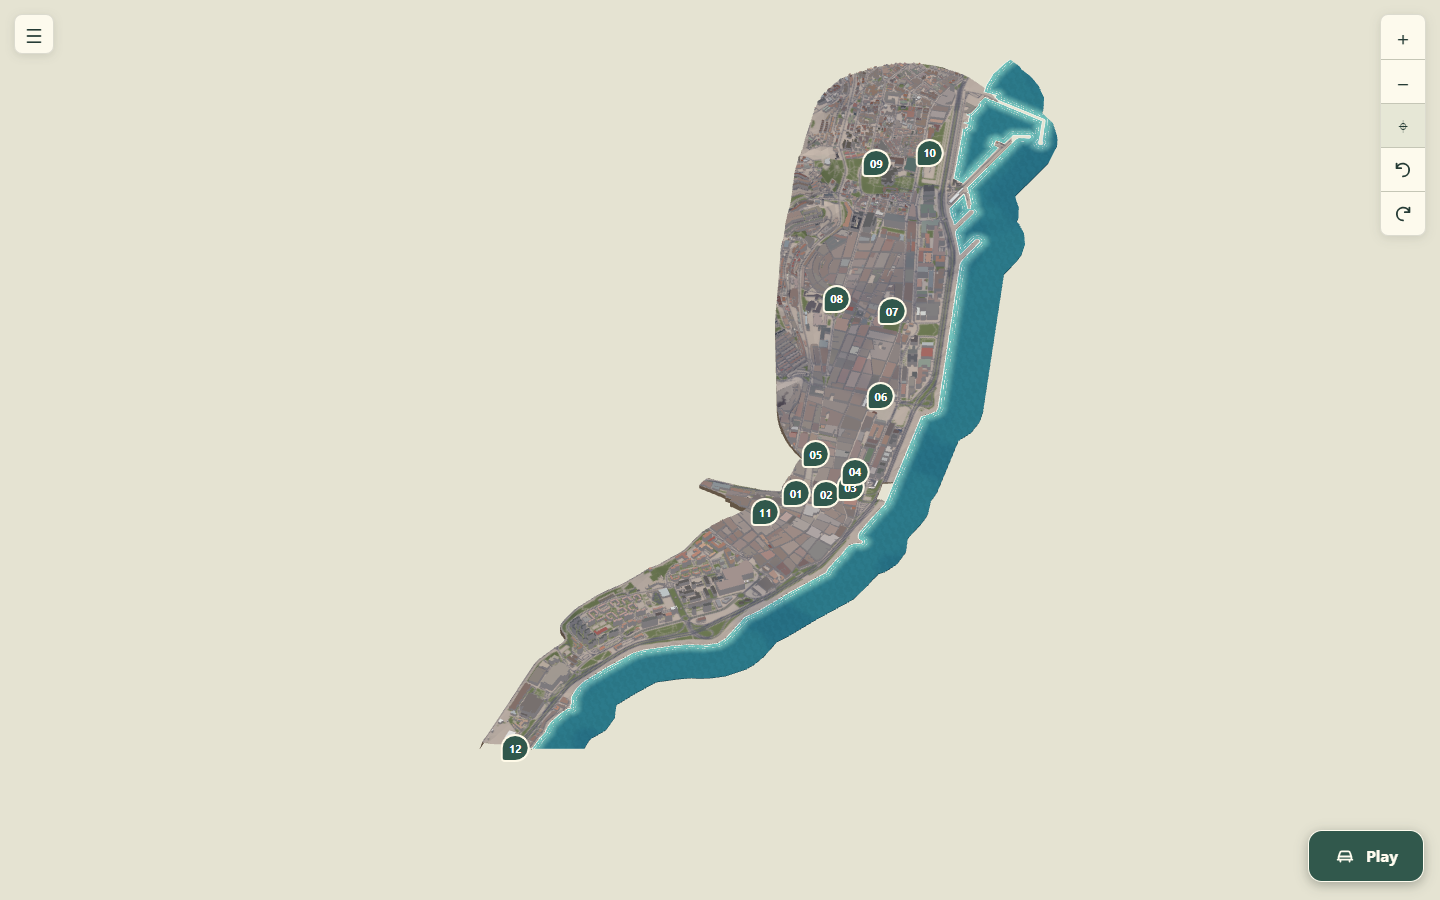
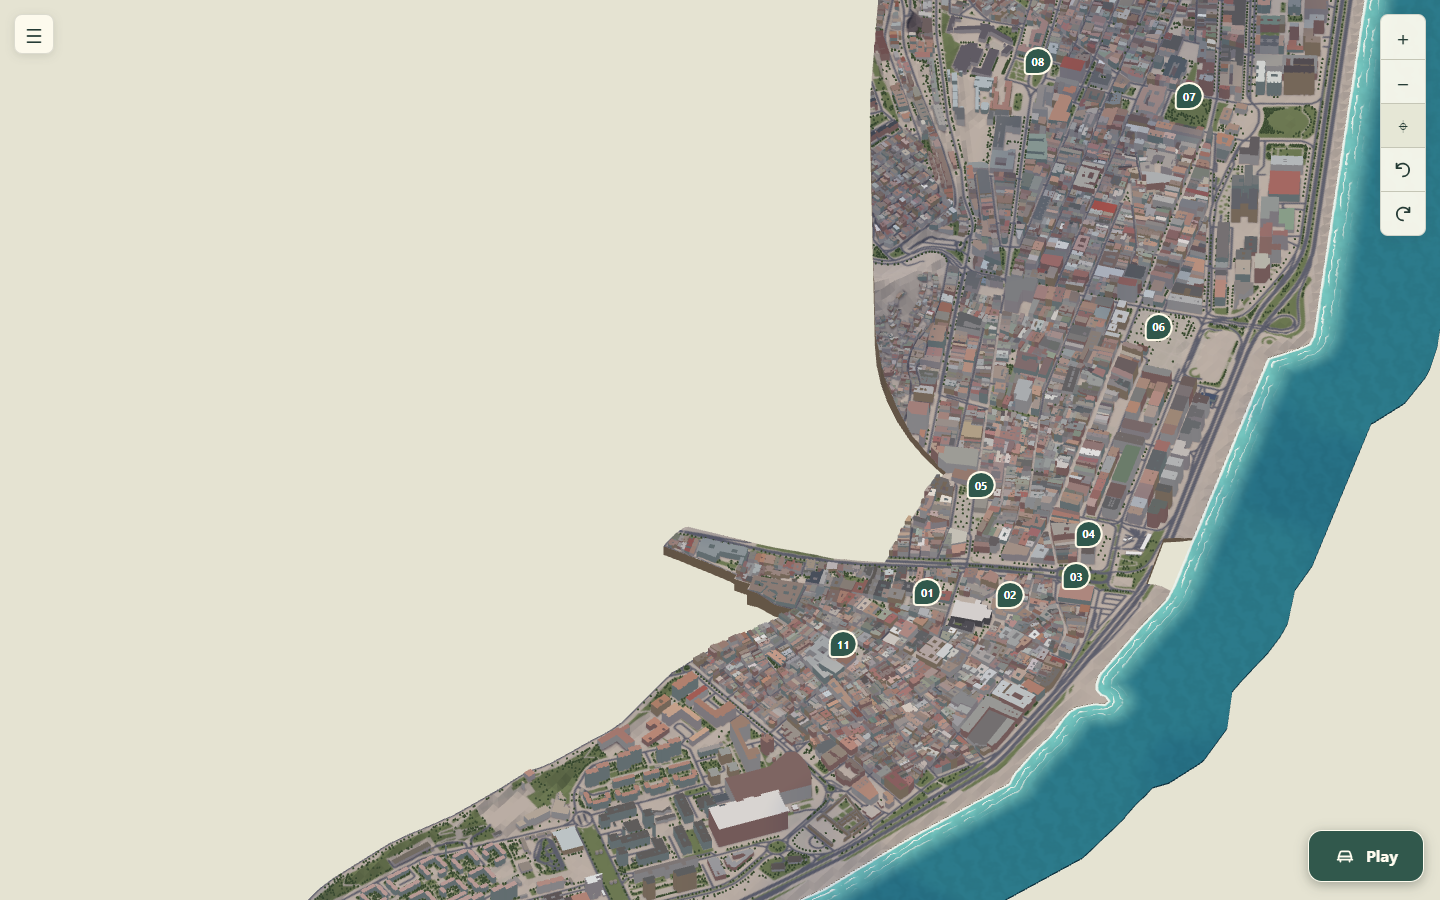
Limit the widest map view to a district

diff --git a/src/main.ts b/src/main.ts
@@ -103,14 +103,17 @@ async function start(){
       halfWidth=Math.max(halfWidth,Math.abs(point.dot(right)));
       halfHeight=Math.max(halfHeight,Math.abs(point.dot(up)));
     }
-    return Math.min(host.clientWidth/(2*halfWidth+60),host.clientHeight/(2*halfHeight+65))*.92;
+    return Math.max(farthest(),Math.min(host.clientWidth/(2*halfWidth+60),host.clientHeight/(2*halfHeight+65))*.92);
   }
+  // The widest view shows a district, never the whole city: its longer side covers this many metres.
+  // It stays inside the span where every building is drawn, so the merged far level only fills in while zones load.
+  function farthest(){return Math.max(host.clientWidth,host.clientHeight)/(compact?2400:3000);}
   function sizeCamera(){
     const w=host.clientWidth,h=host.clientHeight;
     camera.left=-w/2;camera.right=w/2;camera.top=h/2;camera.bottom=-h/2;
     camera.updateProjectionMatrix();camera.updateMatrixWorld();
     const fits=[0,1,2,3].map(fitAt);
-    controls.minZoom=Math.min(...fits,fitAt(mapTurn))*.8;
+    controls.minZoom=Math.max(farthest(),Math.min(...fits,fitAt(mapTurn))*.8);
     controls.maxZoom=drive?.active?Infinity:Math.max(Math.max(...fits)*12,4,openingZoom());
   }
   function openingZoom(){return Math.max(host.clientWidth/340,host.clientHeight/225);}

diff --git a/docs/QA.md b/docs/QA.md
@@ -329,3 +329,7 @@ Limiti: a Santa Ana e Santo Domingo circa un fotogramma su dieci dura ancora il 
 Il dato comunale assegna a ogni parte di un complesso l'altezza massima del complesso. `scripts/lidar-check.py --export` scrive ora in `content/lidar-heights.json` anche le singole parti (`parts`) dove l'altezza comunale supera di oltre 10 m il p95 misurato, solo per OBJECTID con più poligoni, impronta di almeno 30 m² e almeno 50 punti di tetto. `data.py` le applica con `source: lidar-pnoa`. Nei cinque tile scaricati: 72 parti di 15 OBJECTID, altezze da 2,1 a 23,8 m (ad esempio 40994 da 51,7 a 3,3 m, 40032 da 50,6 a 2,7 m). Strade, superfici, alberi, terreno e confine sono identici a prima. Una delle parti appartiene alla cattedrale (41119), che conserva l'altezza del catalogo.
 
 `typecheck`, `build`, `npm.cmd test` e `qa-sectors.mjs` verdi. Limiti: le parti corrette non sono state confrontate una a una con l'ortofoto; un corpo demolito o coperto da vegetazione darebbe un valore basso sbagliato. La regola vale solo dove esiste un tile: Arenales, Ciudad Jardín e i margini ovest non sono coperti. Gli scarti in cui il LiDAR è più alto del comunale non vengono toccati.
+
+## Vista più ampia limitata a un quartiere (22 novembre 2026)
+
+Su richiesta di Luca la mappa non si allontana più fino a mostrare tutta la città. Il lato lungo della vista più ampia copre 3.000 m su desktop e 2.400 m nel profilo compatto (`farthest` in `src/main.ts`); il pulsante di ripristino e le rotazioni usano lo stesso limite. Il limite sta dentro la soglia delle zone (6.000 e 3.200 m), quindi ogni vista mostra un edificio per impronta e gli isolati fusi compaiono solo mentre una zona si carica. `npm.cmd test`, `qa-sectors.mjs` (2 su 2) e `qa-main-lod.mjs` verdi. Le prove non pretendono più tutti i segnaposto visibili nella vista più ampia, e `qa-sectors.mjs` verifica che quella vista conservi le zone senza dettaglio. La vista di ripristino resta centrata sul centro geometrico della città, che ora inquadra in parte terreno fuori dal perimetro.
